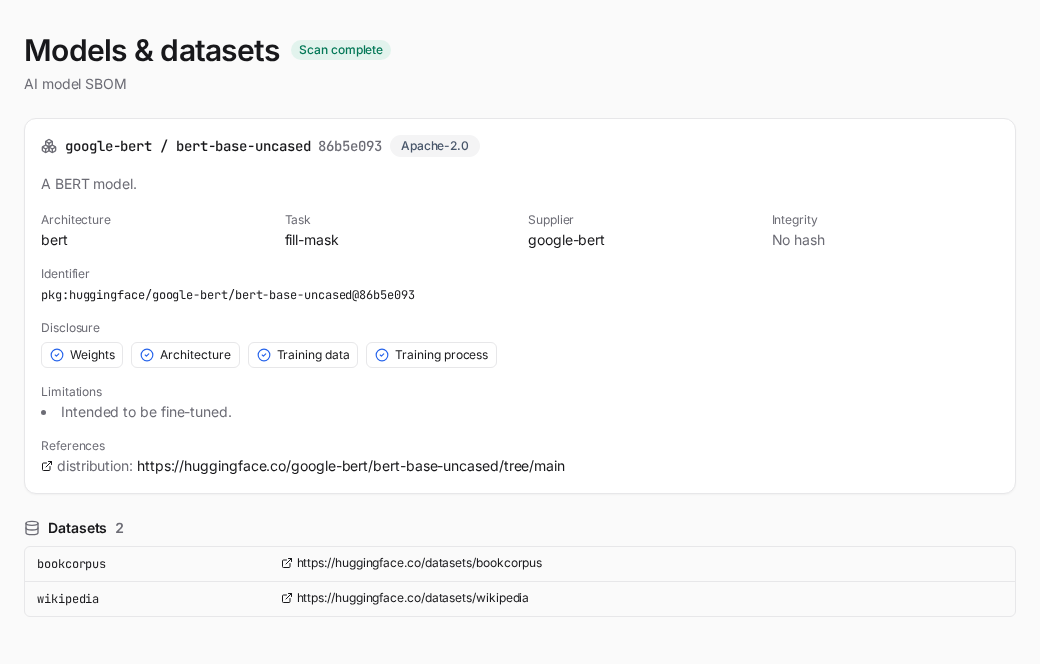
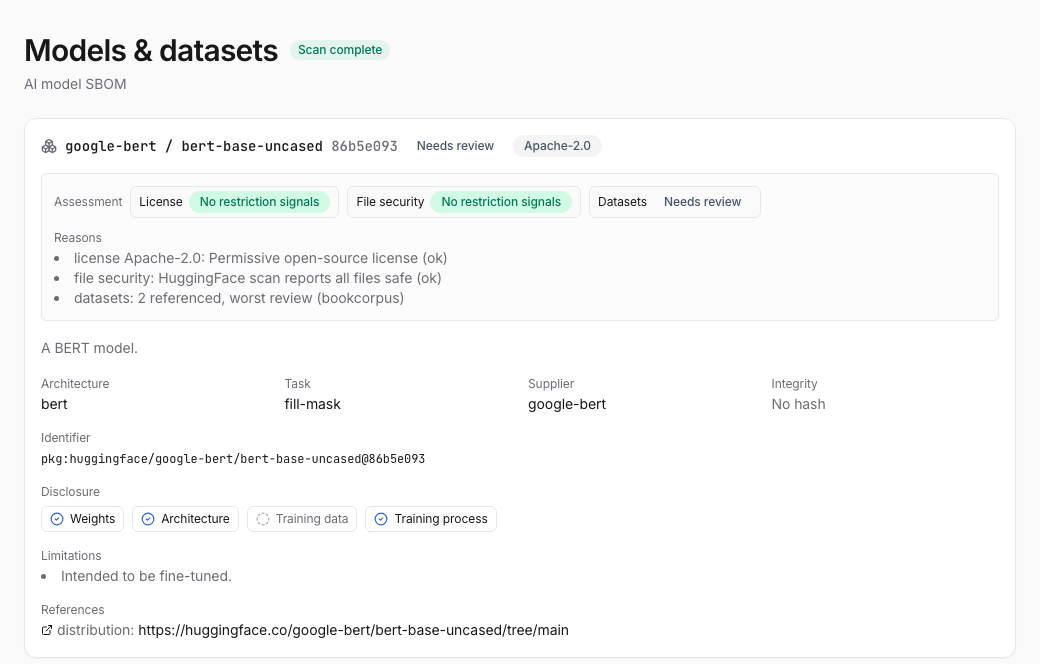
docs(guide): recapture the models screenshot with the risk assessment badges
The AI-model guide screenshot predated the model risk assessment UI, so the
Models & datasets section it showed no longer matched the running app. Enrich
the capture stub the way enrich-aibom.sh + assess-ai-risk.sh leave a resolved
ML-BOM — the model carries its file-security scan status and assessment
verdicts, each referenced dataset is a standalone data component with its own
grade — and regenerate web-ui-models.png so the guide shows the grade badges,
the per-axis verdicts and the reasons.

diff --git a/docker/web/frontend/tests/ui/capture.spec.ts b/docker/web/frontend/tests/ui/capture.spec.ts
@@ -153,12 +153,21 @@ const AI_DONE = {
   security: null,
   conformance: null,
   sbom: {
-    components: 1,
+    components: 3,
     componentList: [
-      { name: "bert-base-uncased", version: "86b5e093", group: "google-bert", purl: "pkg:huggingface/google-bert/bert-base-uncased@86b5e093", type: "machine-learning-model", licenses: ["Apache-2.0"] },
+      { name: "bert-base-uncased", version: "86b5e093", group: "google-bert", purl: "pkg:huggingface/google-bert/bert-base-uncased@86b5e093", type: "machine-learning-model", licenses: ["Apache-2.0"], assessment: "review", assessmentAxes: "license,security,datasets", hfScanStatus: "safe", weightFormats: "safetensors" },
+      { name: "wikipedia", version: "", group: "", purl: "", type: "data", licenses: ["cc-by-sa-4.0"], assessment: "conditional" },
+      { name: "bookcorpus", version: "", group: "", purl: "", type: "data", licenses: [], assessment: "review" },
     ],
+    assessCounts: { ok: 0, conditional: 0, caution: 0, review: 1 },
   },
 };
+// A resolved ML-BOM the way enrich-aibom.sh + assess-ai-risk.sh leave it: the
+// model carries its file-security scan result and its assessment verdicts, and
+// each referenced dataset is a standalone `data` component with its own grade.
+// bert-base-uncased is Apache-2.0 (license ok) with safe, safetensors weights
+// (security ok); one dataset declares no license, so the datasets axis — and
+// therefore the overall verdict — is review, the guide's own worked point.
 const AI_SBOM = {
   bomFormat: "CycloneDX",
   specVersion: "1.7",
@@ -169,6 +178,18 @@ const AI_SBOM = {
       purl: "pkg:huggingface/google-bert/bert-base-uncased@86b5e093", description: "A BERT model.",
       licenses: [{ license: { id: "Apache-2.0" } }], supplier: { name: "google-bert" }, authors: [{ name: "google-bert" }],
       externalReferences: [{ type: "distribution", url: "https://huggingface.co/google-bert/bert-base-uncased/tree/main" }],
+      properties: [
+        { name: "openness:weights", value: "open-weight" },
+        { name: "openness:training-data", value: "declared-unverified" },
+        { name: "bomlens:hf:scan:status", value: "safe" },
+        { name: "bomlens:weights:formats", value: "safetensors" },
+        { name: "bomlens:assessment:axes", value: "license,security,datasets" },
+        { name: "bomlens:assessment:license", value: "ok" },
+        { name: "bomlens:assessment:security", value: "ok" },
+        { name: "bomlens:assessment:datasets", value: "review" },
+        { name: "bomlens:assessment:overall", value: "review" },
+        { name: "bomlens:assessment:reasons", value: "license Apache-2.0: Permissive open-source license (ok); file security: HuggingFace scan reports all files safe (ok); datasets: 2 referenced, worst review (bookcorpus)" },
+      ],
       modelCard: {
         modelParameters: {
           task: "fill-mask", modelArchitecture: "bert",
@@ -179,6 +200,27 @@ const AI_SBOM = {
         },
         considerations: { technicalLimitations: ["Intended to be fine-tuned."] },
       },
+    },
+    {
+      type: "data", "bom-ref": "dataset:huggingface/wikipedia", name: "wikipedia",
+      licenses: [{ license: { name: "cc-by-sa-4.0" } }], hashes: [{ alg: "SHA-256", content: "b".repeat(64) }],
+      externalReferences: [{ type: "distribution", url: "https://huggingface.co/datasets/wikipedia" }],
+      data: [{ type: "dataset", name: "wikipedia", contents: { url: "https://huggingface.co/datasets/wikipedia" } }],
+      properties: [
+        { name: "bomlens:dataset:collectedBy", value: "huggingface" },
+        { name: "bomlens:assessment:license", value: "conditional" },
+        { name: "bomlens:assessment:overall", value: "conditional" },
+      ],
+    },
+    {
+      type: "data", "bom-ref": "dataset:huggingface/bookcorpus", name: "bookcorpus",
+      externalReferences: [{ type: "distribution", url: "https://huggingface.co/datasets/bookcorpus" }],
+      data: [{ type: "dataset", name: "bookcorpus", contents: { url: "https://huggingface.co/datasets/bookcorpus" } }],
+      properties: [
+        { name: "bomlens:dataset:collectedBy", value: "huggingface" },
+        { name: "bomlens:assessment:license", value: "review" },
+        { name: "bomlens:assessment:overall", value: "review" },
+      ],
     },
   ],
 };
